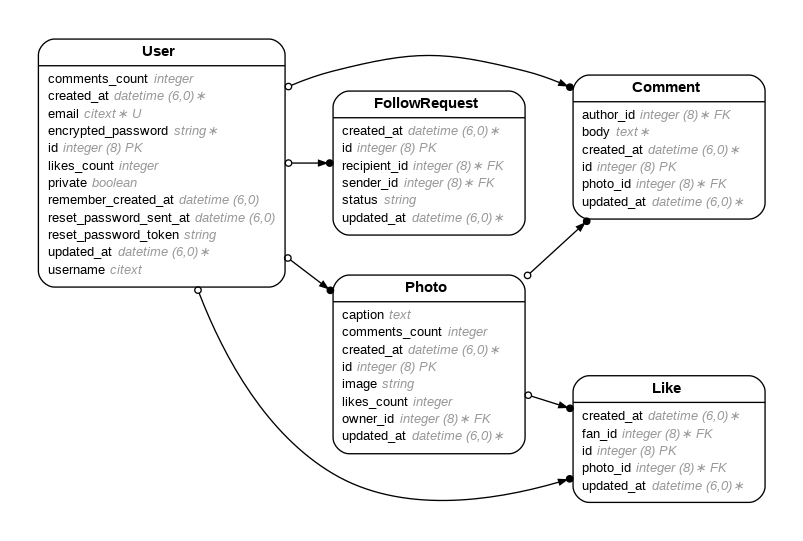
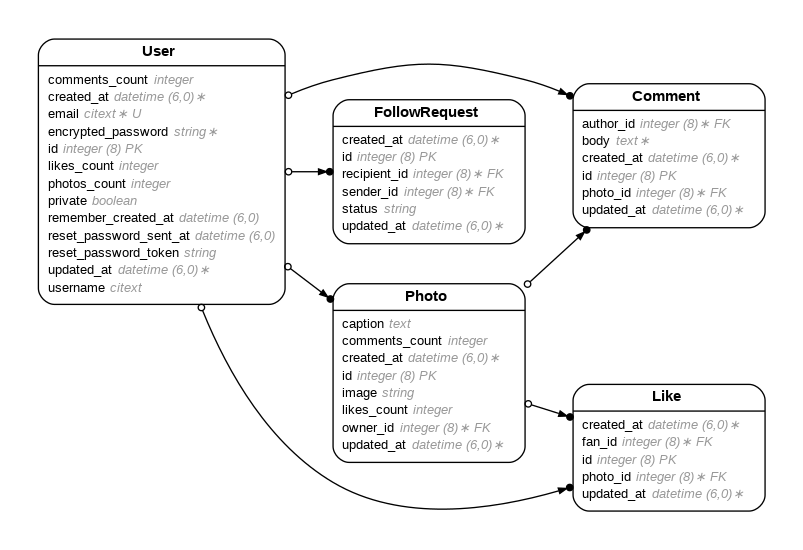
added cache count to likes, comments, photos; added photos_count column to user model

diff --git a/db/schema.rb b/db/schema.rb
@@ -10,7 +10,7 @@
 #
 # It's strongly recommended that you check this file into your version control system.
 
-ActiveRecord::Schema[7.1].define(version: 2024_12_22_015657) do
+ActiveRecord::Schema[7.1].define(version: 2024_12_22_021640) do
   # These are extensions that must be enabled in order to support this database
   enable_extension "citext"
   enable_extension "plpgsql"
@@ -66,6 +66,7 @@ ActiveRecord::Schema[7.1].define(version: 2024_12_22_015657) do
     t.integer "comments_count", default: 0
     t.datetime "created_at", null: false
     t.datetime "updated_at", null: false
+    t.integer "photos_count", default: 0
     t.index ["email"], name: "index_users_on_email", unique: true
     t.index ["reset_password_token"], name: "index_users_on_reset_password_token", unique: true
     t.index ["username"], name: "index_users_on_username", unique: true

diff --git a/app/models/user.rb b/app/models/user.rb
@@ -7,6 +7,7 @@
 #  email                  :citext           default(""), not null
 #  encrypted_password     :string           default(""), not null
 #  likes_count            :integer          default(0)
+#  photos_count           :integer          default(0)
 #  private                :boolean
 #  remember_created_at    :datetime
 #  reset_password_sent_at :datetime

diff --git a/app/models/comment.rb b/app/models/comment.rb
@@ -19,6 +19,6 @@
 #  fk_rails_...  (photo_id => photos.id)
 #
 class Comment < ApplicationRecord
-  belongs_to :author, class_name: "User"
-  belongs_to :photo
+  belongs_to :author, class_name: "User", counter_cache: true
+  belongs_to :photo, counter_cache: true
 end

diff --git a/app/models/like.rb b/app/models/like.rb
@@ -19,6 +19,6 @@
 #  fk_rails_...  (photo_id => photos.id)
 #
 class Like < ApplicationRecord
-  belongs_to :fan, class_name: "User"
-  belongs_to :photo
+  belongs_to :fan, class_name: "User", counter_cache: true
+  belongs_to :photo, counter_cache: true
 end

diff --git a/app/models/photo.rb b/app/models/photo.rb
@@ -20,6 +20,6 @@
 #  fk_rails_...  (owner_id => users.id)
 #
 class Photo < ApplicationRecord
-  belongs_to :owner, class_name: "User"
+  belongs_to :owner, class_name: "User", counter_cache: true
   has_many :comments
 end

diff --git a/db/migrate/20241222021640_add_photos_count_to_users.rb b/db/migrate/20241222021640_add_photos_count_to_users.rb
@@ -1,0 +1,5 @@
+class AddPhotosCountToUsers < ActiveRecord::Migration[7.1]
+  def change
+    add_column :users, :photos_count, :integer, default: 0
+  end
+end
